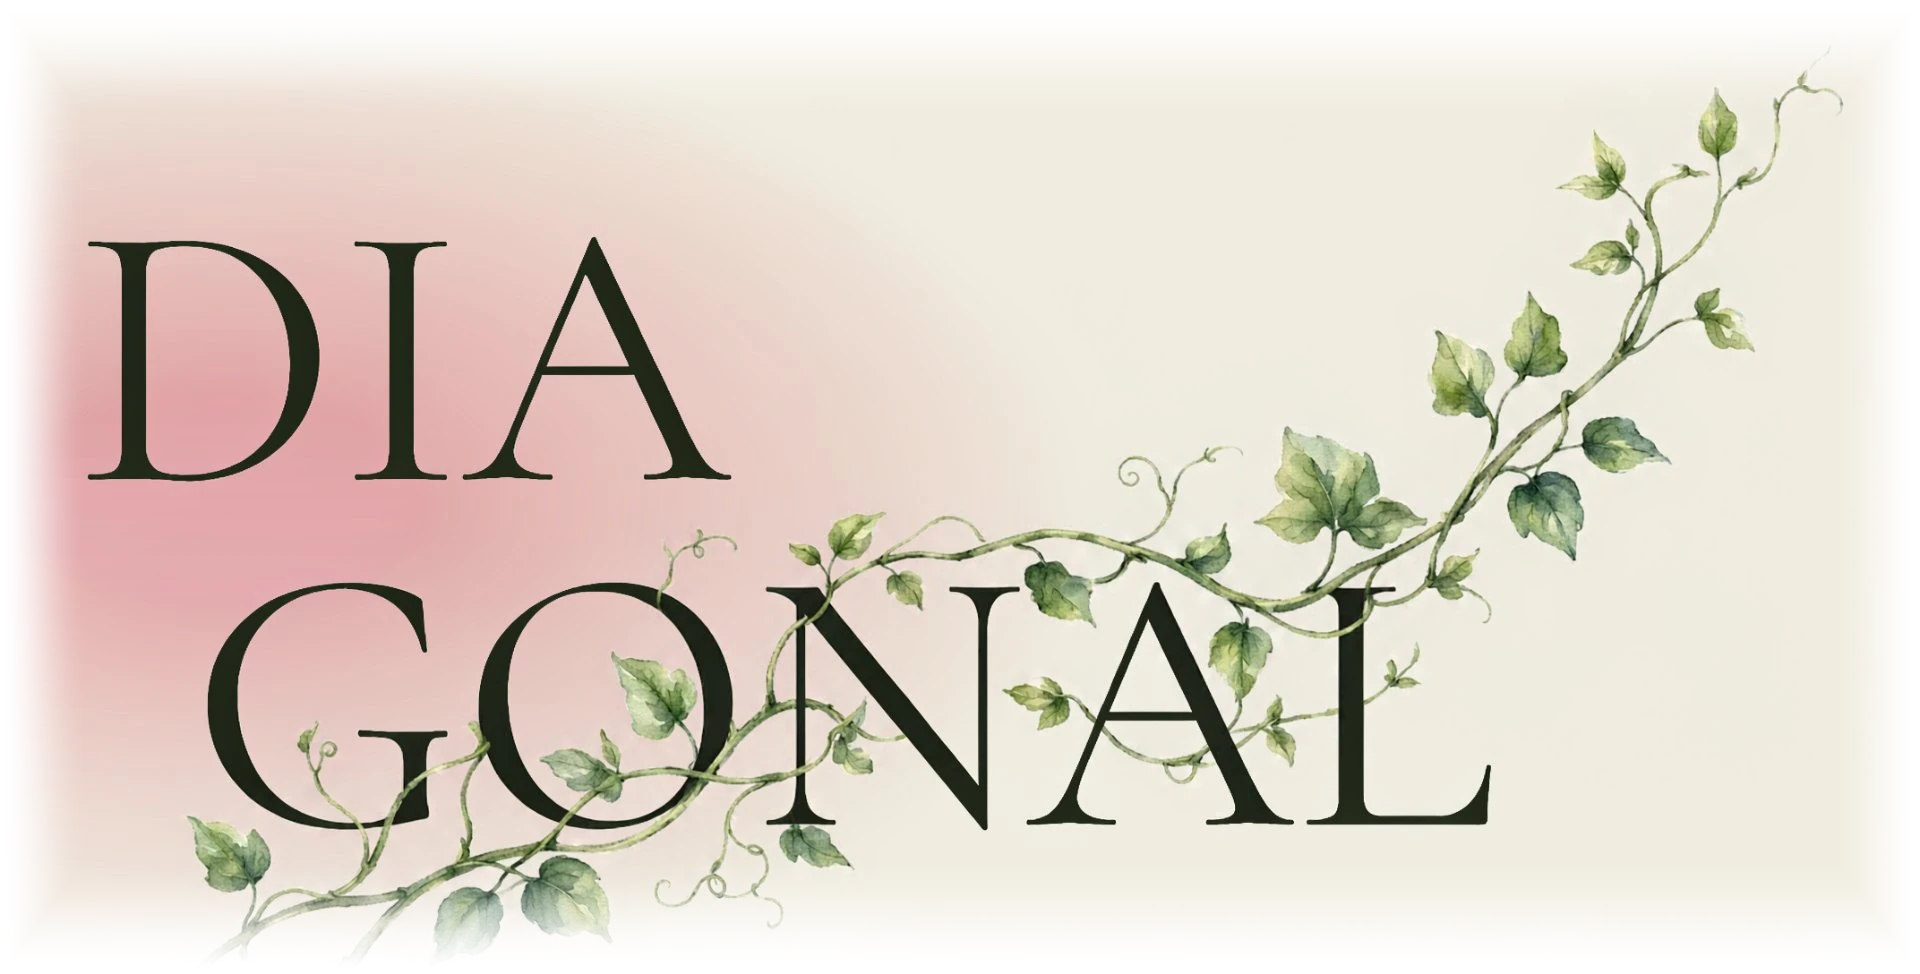
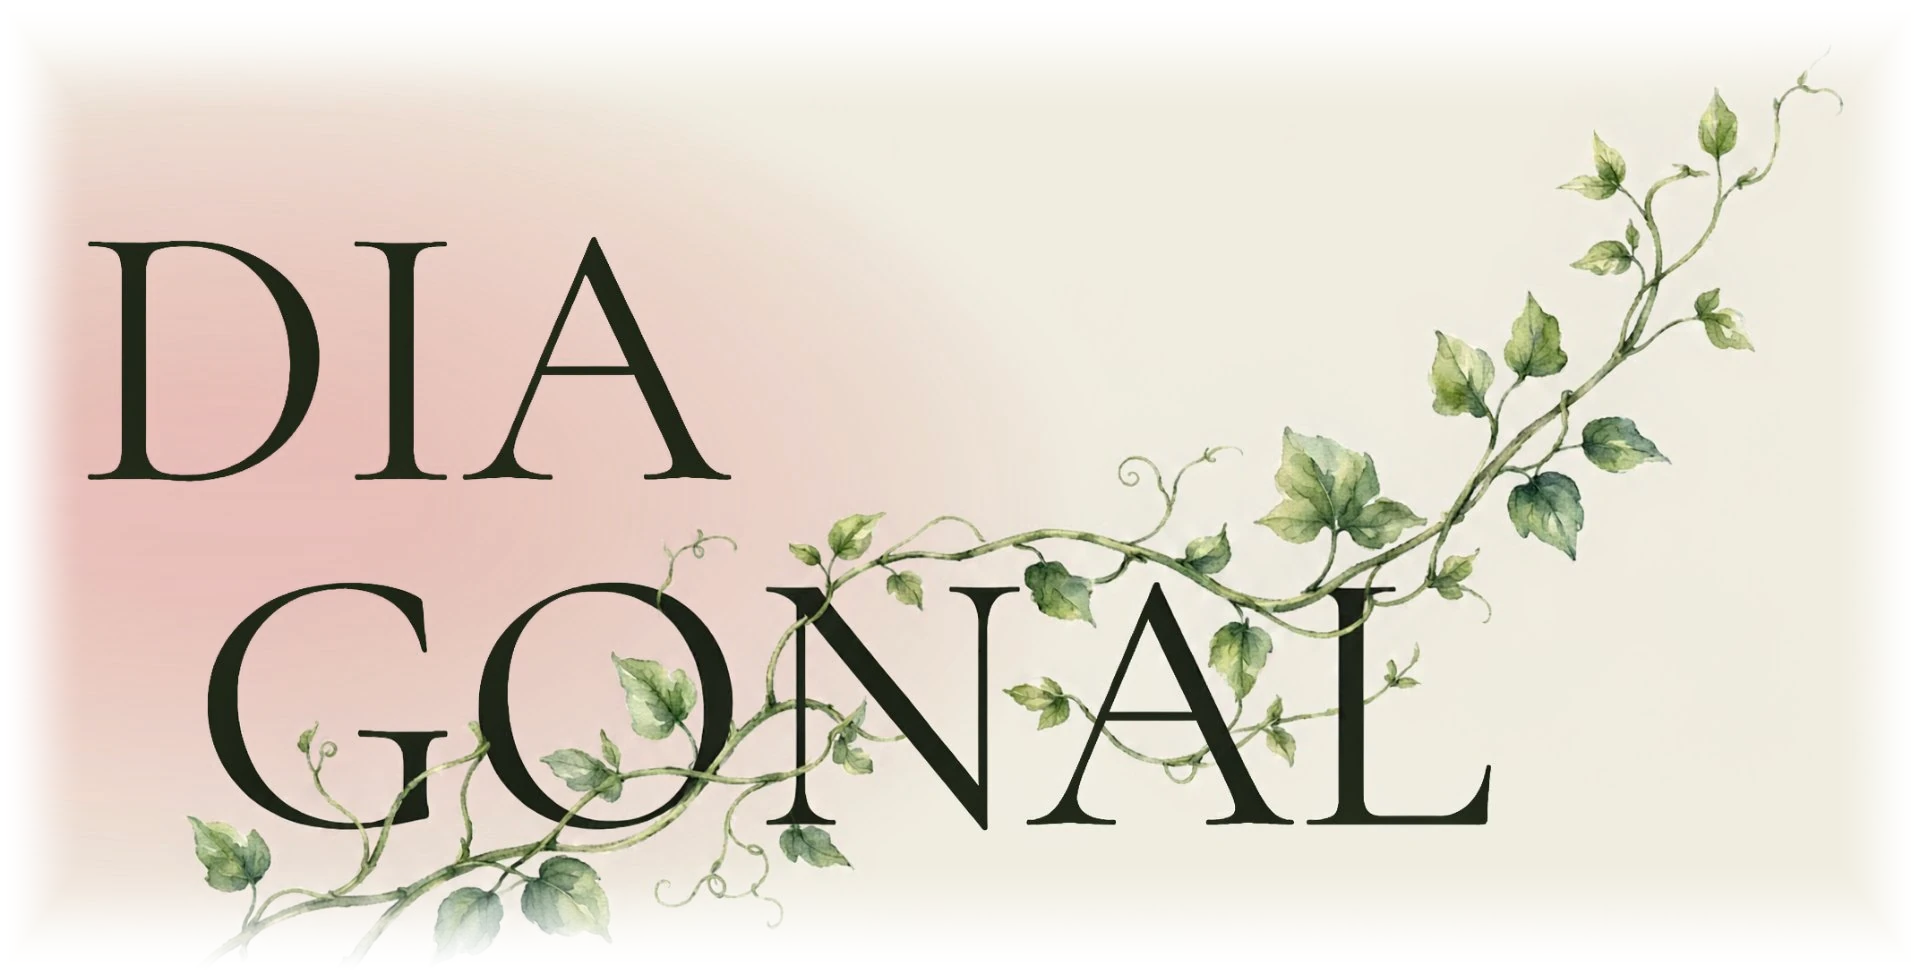
fix(hero): 撤掉与题图叠加的山茶红光斑，并柔化题图粉晕
用户反馈草木风首页左侧那块红不和谐，要求检查图片。

分层诊断（verify/_red_diag.cjs，A 现状 / B 关花光 / C 只留花光）逐点量色：
视口最左 x=40 的粉 sat21% 全部来自全站花光的 flora-bloom-1（山茶红主光）；
题图内 x=150 的粉 sat26% 完全来自题图自己。原 JPG 与派生 webp 的 RGB 逐点
几乎一致，不是图片被压坏 —— 是两片红同侧叠加、形状不同，接缝成了近矩形的
玫红脏斑（又是「别在同一方向连加两轮色」）。

- globals.css：html[data-theme=herbarium]:has(.home-page) 下只撤 bloom-1，
  苔绿 bloom-2 留着与藤蔓同色系呼应，其它页面花光原样。实测左外侧
  sat 21%→5%，关掉整层花光的 B 态与现状逐点一致。
- hero-botanical.webp：生成脚本加「按粉度权重混纸色 38% + B 压 6」，把冷玫红
  (229,184,181，B≈G 偏紫) 转成更淡更暖的 (233,198,189)；黑字/绿藤蔓/米白底
  的 pink 权重为 0，实测三个点一像素不变。原始 jpg 完整保留，关掉 MIX/WARM
  即可回退原色。

另核实左缘不是硬边：x=80→140 的 sat 5%→21% 是平滑渐变，未再改羽化。
验证：tsc/lint/build 通过；桌面 1440 / 手机 390 × 双主题 0 pageerror；题图
ratio 0.5073 未裁；档案风图片仍 display:none 且未下载。

Changed region(s): [[0.0312, 0.3696, 0.2188, 0.5544]]

diff --git a/src/app/globals.css b/src/app/globals.css
@@ -1053,6 +1053,16 @@ html[data-theme="herbarium"] .home-page .hero-botanical-art {
   max-width: none;
   height: auto;
 }
+/* ⚠ 首页别再叠第二轮红。
+   题图左半自带一整片柔和粉晕；全站花光的 flora-bloom-1（山茶红主光，
+   left:-14vw / 58vw / opacity .55）恰好也压在同一侧。两片红形状不同、
+   浓度相加，接缝处读成一块近矩形的玫红色斑（用户实测「不和谐」）。
+   逐层测过：视口最左 x=40 的粉 sat21% 全部来自 bloom-1，关掉它即回纯纸
+   sat5%；题图内 x=150 的粉 sat26% 则完全来自题图自己，与该层无关。
+   这里只撤红这一片，苔绿 bloom-2 留着和藤蔓同色系呼应；其它页面原样。 */
+html[data-theme="herbarium"]:has(.home-page) .site-flora-field .flora-bloom-1 {
+  display: none;
+}
 html[data-theme="herbarium"] .home-page h1 > span.block {
   position: absolute;
   width: 1px;
